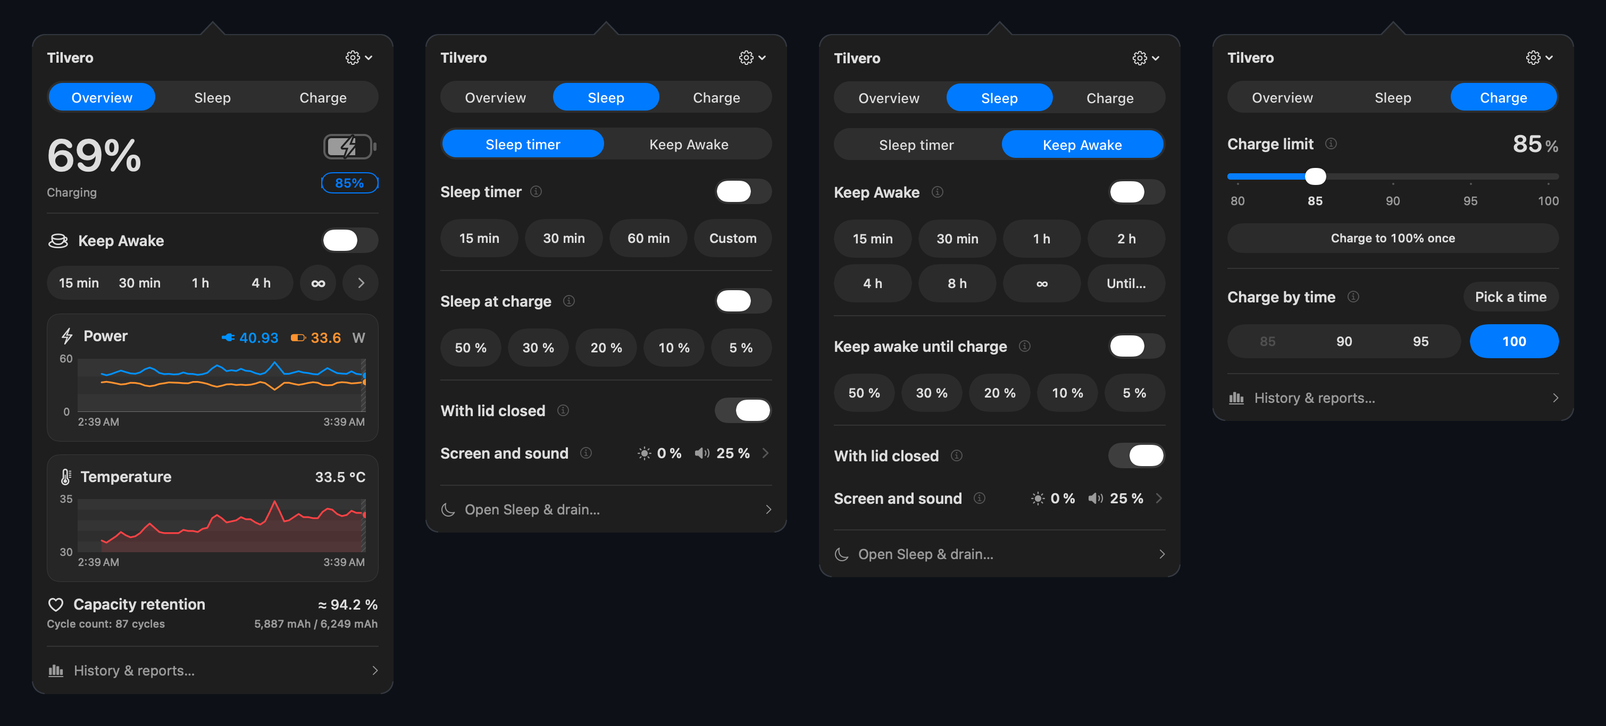
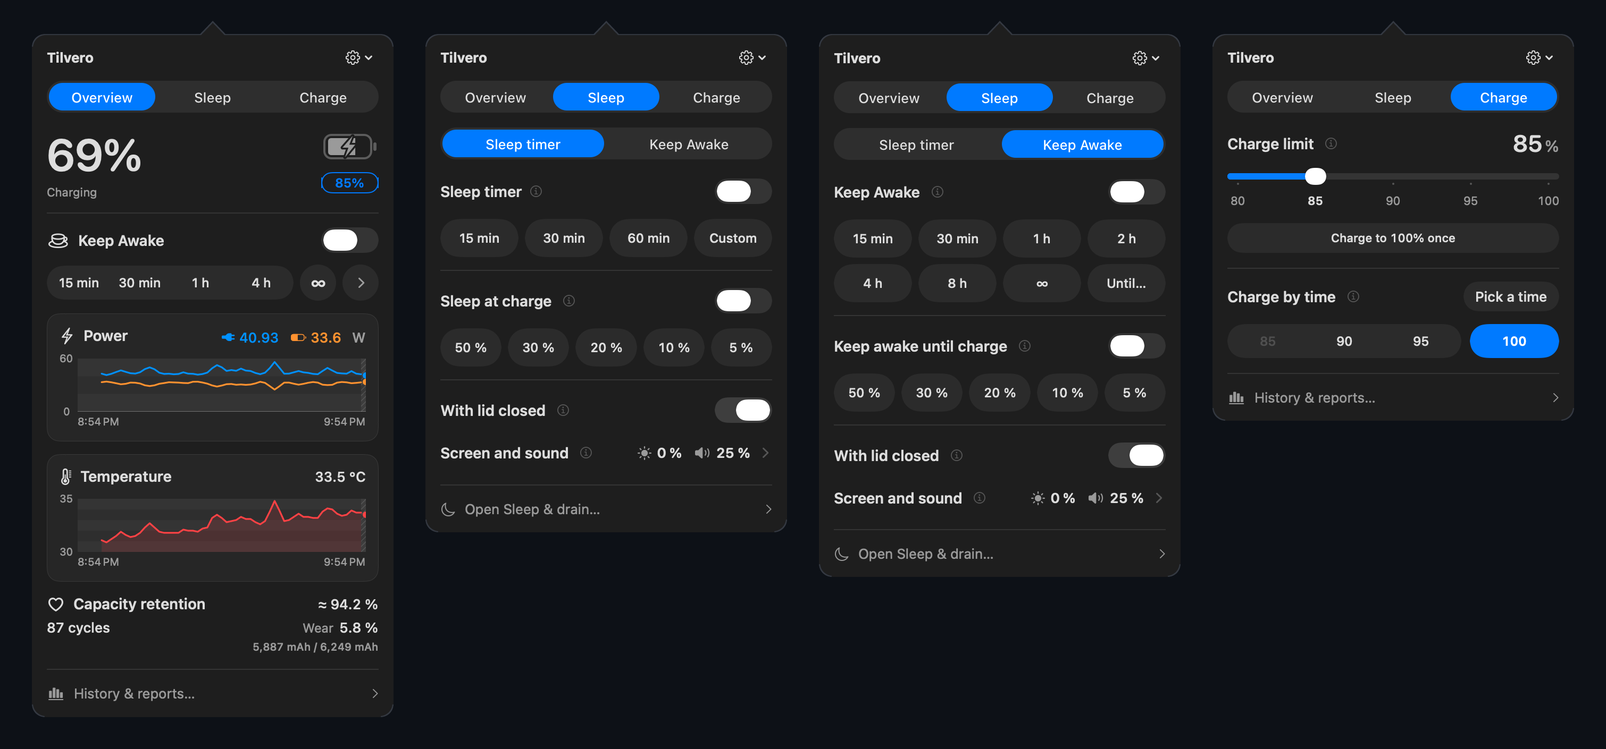
Prepare Tilvero 0.7.1
Version 0.7.1 (build 86): changelog, README EN/RU "What's new", install/releasing pins,
update-check wording (on by default, daily, can be turned off), test counts, and the
quick-menu README composites regenerated from the real views (new battery-health card).

diff --git a/README.ru.md b/README.ru.md
@@ -1,7 +1,7 @@
 ![Tilvero — батарея, питание и активность. Swift 6, macOS 26+, Apple silicon. Предварительная версия в исходниках.](.github/assets/cover.png)
 
 <p align="center">
-  <a href="https://github.com/RaNDoM6913/Tilvero/releases/tag/v0.7.0"><img src="https://img.shields.io/badge/source-preview-2F6E4B?style=for-the-badge&amp;labelColor=172A22&amp;color=2F6E4B" alt="Предварительная версия в исходниках" height="28"></a>
+  <a href="https://github.com/RaNDoM6913/Tilvero/releases/tag/v0.7.1"><img src="https://img.shields.io/badge/source-preview-2F6E4B?style=for-the-badge&amp;labelColor=172A22&amp;color=2F6E4B" alt="Предварительная версия в исходниках" height="28"></a>
   <a href="docs/GITHUB_TRAFFIC.md"><img src="https://img.shields.io/badge/zip%20%E2%80%A2%20clones%20%E2%80%A2%20unique-18%20%E2%80%A2%201677%20%E2%80%A2%20409-2F6E4B?style=for-the-badge&amp;labelColor=172A22" alt="Скачивания ZIP 18, клонирования Git 1677, уникальные клонирующие 409" height="28"></a>
   <a href="LICENSE"><img src="https://img.shields.io/badge/license-GPL--3.0--only-2F6E4B?style=for-the-badge&amp;labelColor=172A22&amp;color=2F6E4B" alt="Лицензия GPL-3.0-only" height="28"></a>
 </p>
@@ -30,35 +30,36 @@ Tilvero живёт в строке меню. Одно быстрое меню п
 - **Первый запуск:** на совсем новой установке открывается одно окно настройки (запуск при входе, история, режим закрытой крышки
   и «Зарядить к времени»). Уже установленные копии его не показывают.
 
-**Новейшая версия: [исходники 0.7.0](https://github.com/RaNDoM6913/Tilvero/releases/tag/v0.7.0) для разработчиков.**
-[Получить исходники](https://github.com/RaNDoM6913/Tilvero/releases/download/v0.7.0/Tilvero-0.7.0-source.zip)
-· [Описание выпуска и контрольные суммы](https://github.com/RaNDoM6913/Tilvero/releases/tag/v0.7.0)
+**Новейшая версия: [исходники 0.7.1](https://github.com/RaNDoM6913/Tilvero/releases/tag/v0.7.1) для разработчиков.**
+[Получить исходники](https://github.com/RaNDoM6913/Tilvero/releases/download/v0.7.1/Tilvero-0.7.1-source.zip)
+· [Описание выпуска и контрольные суммы](https://github.com/RaNDoM6913/Tilvero/releases/tag/v0.7.1)
 · [Сборка и запуск](#сборка-и-запуск) · [План развития](ROADMAP.md)
-· Ранее: [0.6.2](https://github.com/RaNDoM6913/Tilvero/releases/tag/v0.6.2),
-[0.6.1](https://github.com/RaNDoM6913/Tilvero/releases/tag/v0.6.1)
+· Ранее: [0.7.0](https://github.com/RaNDoM6913/Tilvero/releases/tag/v0.7.0),
+[0.6.2](https://github.com/RaNDoM6913/Tilvero/releases/tag/v0.6.2)
 
 Подписанная и нотарифицированная версия для Mac готовится. Планируемый DMG
 **Monitoring Preview** будет работать только для чтения; в репозитории также
 есть управление для разработки с отдельными проверками допуска.
 [Доступность и установка](docs/INSTALL.md#русский).
 
-## Что нового в 0.7.0
+## Что нового в 0.7.1
 
-Первичная настройка и более аккуратный «Обзор».
+Доводка: более понятная карточка здоровья батареи и тихое уведомление об обновлении.
 
 **Новое**
-- **Первый запуск с помощником.** На совсем новой установке одно окно настраивает всё: запуск при входе, историю, режим закрытой крышки и «Зарядить к времени». Всё включено, у каждого пункта свой переключатель. Два пункта, которым нужен пароль администратора, делят один системный диалог macOS (или, если хотите, подготовленное окно Терминала); пароль Tilvero не видит. Потом вокруг иконки в строке меню пульсирует кольцо, пока не откроется быстрое меню. Уже установленные копии окно не показывают.
-- **Стартовый «Обзор».** Новая установка начинается с «Не засыпать», общего графика мощности, температуры и здоровья батареи, а не со всех блоков.
-- **«Убрать все разрешения».** В Настройки > Установка перечислены все права администратора у Tilvero; одна кнопка снимает их все, а команду можно выполнить самому.
+- **Пометка «Новая версия» в быстром меню.** Если последняя проверка нашла выпуск новее вашей сборки, в шапке между названием и шестерёнкой появляется широкая капсула; она открывает Настройки > Обновления. Это только уведомление.
+- **Проверка обновлений включена по умолчанию.** Tilvero раз в сутки, пока работает, обращается к GitHub (первый раз примерно через две минуты после запуска). Это один публичный запрос: без аккаунта, показания не отправляются. Выключается в Настройки > Обновления. Установка по-прежнему ручная: выпуск публикует исходники, которые вы собираете в Xcode; ничего не скачивается и не устанавливается само.
 
 **Изменено**
-- **Общий график мощности называет линии в легенде над графиком** (адаптер синим, батарея оранжевым) вместо подписей на концах: график стал шире на всю карточку.
-- **Единый стиль заголовков у всех блоков «Обзора»**, как у «Не засыпать».
-- Плашки таймера «Не засыпать» отсчитывают каждую секунду, заливка батареи в строке меню заканчивается на целом пункте, как у системной, а у строки подсветки клавиатуры нет переключателя.
+- **Карточка здоровья батареи в «Обзоре» показывает число циклов и износ крупнее**, а ёмкости мелким шрифтом ниже.
+- Страница «Обновления» продолжает показывать результат последней успешной проверки с датой, даже если следующая проверка не удалась или отменена.
 
-## Что было нового в 0.6.2
+**Исправлено**
+- Переключатель «Не засыпать» и таймера сна снова анимируется: раньше он пересоздавался посреди нажатия.
 
-Доводка графиков и иконки в строке меню: целые числа на оси, батарея в строке меню ближе к системной и более тихая страница «Заряд».
+## Что было нового в 0.7.0
+
+Первичная настройка для новых установок, стартовый «Обзор» с «Не засыпать», мощностью, температурой и здоровьем батареи и единый стиль заголовков блоков.
 
 Вся история: [CHANGELOG](CHANGELOG.md).
 
@@ -100,7 +101,7 @@ Tilvero живёт в строке меню. Одно быстрое меню п
 macOS SDK и Swift 6. Отдельные Command Line Tools не являются проверенным путём сборки.
 
 ```sh
-git clone --branch v0.7.0 https://github.com/RaNDoM6913/Tilvero.git
+git clone --branch v0.7.1 https://github.com/RaNDoM6913/Tilvero.git
 cd Tilvero
 bash scripts/test.sh
 bash scripts/build-local-app.sh

diff --git a/README.md b/README.md
@@ -1,7 +1,7 @@
 ![Tilvero — Battery, power and activity. Swift 6, macOS 26+, Apple silicon. Source preview.](.github/assets/cover.png)
 
 <p align="center">
-  <a href="https://github.com/RaNDoM6913/Tilvero/releases/tag/v0.7.0"><img src="https://img.shields.io/badge/source-preview-2F6E4B?style=for-the-badge&amp;labelColor=172A22&amp;color=2F6E4B" alt="Source preview" height="28"></a>
+  <a href="https://github.com/RaNDoM6913/Tilvero/releases/tag/v0.7.1"><img src="https://img.shields.io/badge/source-preview-2F6E4B?style=for-the-badge&amp;labelColor=172A22&amp;color=2F6E4B" alt="Source preview" height="28"></a>
   <a href="docs/GITHUB_TRAFFIC.md"><img src="https://img.shields.io/badge/zip%20%E2%80%A2%20clones%20%E2%80%A2%20unique-18%20%E2%80%A2%201677%20%E2%80%A2%20409-2F6E4B?style=for-the-badge&amp;labelColor=172A22" alt="Source ZIP downloads 18, Git clones 1677, unique cloners 409" height="28"></a>
   <a href="LICENSE"><img src="https://img.shields.io/badge/license-GPL--3.0--only-2F6E4B?style=for-the-badge&amp;labelColor=172A22&amp;color=2F6E4B" alt="License: GPL-3.0-only" height="28"></a>
 </p>
@@ -30,34 +30,35 @@ establish hardware support or qualify a release binary.</sub>
 - **First run:** a brand-new install opens one setup window (launch at login, history, the closed-lid option and charge by time).
   Existing installs never see it.
 
-**Latest: [0.7.0 Source Preview](https://github.com/RaNDoM6913/Tilvero/releases/tag/v0.7.0) for developers.**
-[Get the source](https://github.com/RaNDoM6913/Tilvero/releases/download/v0.7.0/Tilvero-0.7.0-source.zip)
-· [Release notes and checksums](https://github.com/RaNDoM6913/Tilvero/releases/tag/v0.7.0)
+**Latest: [0.7.1 Source Preview](https://github.com/RaNDoM6913/Tilvero/releases/tag/v0.7.1) for developers.**
+[Get the source](https://github.com/RaNDoM6913/Tilvero/releases/download/v0.7.1/Tilvero-0.7.1-source.zip)
+· [Release notes and checksums](https://github.com/RaNDoM6913/Tilvero/releases/tag/v0.7.1)
 · [Build and run](#build-and-run) · [Roadmap](ROADMAP.md)
-· Earlier: [0.6.2](https://github.com/RaNDoM6913/Tilvero/releases/tag/v0.6.2),
-[0.6.1](https://github.com/RaNDoM6913/Tilvero/releases/tag/v0.6.1)
+· Earlier: [0.7.0](https://github.com/RaNDoM6913/Tilvero/releases/tag/v0.7.0),
+[0.6.2](https://github.com/RaNDoM6913/Tilvero/releases/tag/v0.6.2)
 
 A signed, notarized Mac download is still in preparation. The planned
 **Monitoring Preview** DMG will be read-only; this repository also contains
 separately gated development controls. [Availability and installation](docs/INSTALL.md).
 
-## What's new in 0.7.0
+## What's new in 0.7.1
 
-A first-run setup and a tidier Overview.
+A polish release: a clearer battery-health card and a quiet update notice.
 
 **New**
-- **A guided first run.** On a brand-new install one window sets everything up: launch at login, history, the closed-lid option and charge by time, all on, with one switch each. The two that need the administrator password share a single macOS dialog (or, if you prefer, a prepared Terminal window), and Tilvero never sees the password. A ring then pulses around the menu bar icon until the quick menu opens. Existing installs never see it.
-- **A starter Overview.** New installs begin with Keep Awake, the combined power chart, temperature and battery health instead of every block.
-- **Remove all permissions.** Settings > Setup lists each administrator permission Tilvero holds, with one button that removes them all and a command to do it yourself.
+- **A "New version" notice in the quick menu.** When the last update check found a release newer than your build, a wide capsule appears in the header between the name and the gear and opens Settings > Updates. It only informs.
+- **Update checks are on by default.** Tilvero asks GitHub once a day while it runs (the first time about two minutes after launch). It is one public request: no account, no readings sent. Turn it off in Settings > Updates. Installing is still manual: a release publishes source, which you build with Xcode; nothing is downloaded or installed for you.
 
 **Changed**
-- **The combined power chart names its lines in a header legend** (adapter in blue, battery in orange) instead of end labels, so the plot is as wide as the card.
-- **One title style for every Overview block**, the same as Keep Awake.
-- The Keep Awake timer pills count down every second, the menu bar battery fill ends on a whole point like the system battery, and the keyboard backlight row has no on/off switch.
+- **The battery-health card on the Overview shows the cycle count and the wear on a larger line**, with the capacities small below.
+- The Updates page keeps showing the dated result of the last successful check, even when a later check fails or is cancelled.
 
-## What was new in 0.6.2
+**Fixed**
+- The Keep Awake and Sleep timer switch animates again; it was rebuilt in the middle of the click.
 
-A polish release for the charts and the menu bar icon: a whole-number chart axis, a menu bar battery closer to the system one, and a quieter Charge page.
+## What was new in 0.7.0
+
+A first-run setup for new installs, a starter Overview with Keep Awake, power, temperature and battery health, and one title style for every Overview block.
 
 Full history: [CHANGELOG](CHANGELOG.md).
 
@@ -99,7 +100,7 @@ You need **Apple silicon, macOS 26.0+ and a full Xcode installation** with a
 compatible macOS SDK and Swift 6. Command Line Tools alone are not the validated route.
 
 ```sh
-git clone --branch v0.7.0 https://github.com/RaNDoM6913/Tilvero.git
+git clone --branch v0.7.1 https://github.com/RaNDoM6913/Tilvero.git
 cd Tilvero
 bash scripts/test.sh
 bash scripts/build-local-app.sh

diff --git a/docs/INSTALL.md b/docs/INSTALL.md
@@ -7,7 +7,7 @@
 ### Available now: source preview
 
 Tilvero is available as source for **Apple silicon, macOS 26.0+**. Use the
-[v0.7.0 source release](https://github.com/RaNDoM6913/Tilvero/releases/tag/v0.7.0)
+[v0.7.1 source release](https://github.com/RaNDoM6913/Tilvero/releases/tag/v0.7.1)
 and follow [Build and run](../README.md#build-and-run).
 A source archive requires a full Xcode installation; it is not an installable app.
 
@@ -23,7 +23,7 @@ Awake. Monitoring, history and diagnostics need no administrator approval.
 
 ### Verify a source release
 
-The release supplies `Tilvero-0.7.0-source.zip`,
+The release supplies `Tilvero-0.7.1-source.zip`,
 `source-release.json` and `SHA256SUMS`. Download all three from the same explicit
 release, then run `shasum -a 256 -c SHA256SUMS` in their folder. Every entry must
 match. The source manifest identifies the tag, exact commit and source ZIP hash;
@@ -33,7 +33,7 @@ use the build commands below, starting with `bash scripts/test.sh`.
 ### Source-build essentials
 
 ```sh
-git clone --branch v0.7.0 https://github.com/RaNDoM6913/Tilvero.git
+git clone --branch v0.7.1 https://github.com/RaNDoM6913/Tilvero.git
 cd Tilvero
 bash scripts/test.sh
 bash scripts/build-local-app.sh
@@ -68,7 +68,8 @@ around rejection. A checksum confirms integrity, not signing trust or notarizati
 
 ### Updates and local data
 
-Updates are manual. Read migration notes, quit the running version normally,
+Updates are manual. Tilvero checks GitHub once a day for a newer release (one public request, no readings sent; switch it off in
+Settings > Updates) and shows a "New version" notice, but never downloads or installs anything. Read migration notes, quit the running version normally,
 then replace it with the verified new app. Preserve history and preferences;
 report an import failure instead of deleting the old store. Do not run prototype
 and production copies together during migration.
@@ -90,7 +91,7 @@ before sharing them. No automatic updater is enabled.
 ### Сейчас доступны исходники
 
 Tilvero доступен в исходниках для **Apple silicon, macOS 26.0+**. Скачайте
-[исходники v0.7.0](https://github.com/RaNDoM6913/Tilvero/releases/tag/v0.7.0)
+[исходники v0.7.1](https://github.com/RaNDoM6913/Tilvero/releases/tag/v0.7.1)
 и следуйте инструкции [«Сборка и запуск»](../README.ru.md#сборка-и-запуск).
 Архив исходников требует полной установки Xcode; это не готовое приложение.
 
@@ -107,7 +108,7 @@ DMG **Monitoring Preview** не будет содержать помощника
 
 ### Проверка выпуска исходников
 
-Выпуск содержит `Tilvero-0.7.0-source.zip`,
+Выпуск содержит `Tilvero-0.7.1-source.zip`,
 `source-release.json` и `SHA256SUMS`. Скачайте все три файла из одного конкретного
 выпуска и выполните в их папке `shasum -a 256 -c SHA256SUMS`; все записи должны
 совпасть. Манифест исходников указывает тег, точный коммит и сумму ZIP, но не
@@ -117,7 +118,7 @@ DMG **Monitoring Preview** не будет содержать помощника
 ### Сборка из исходников
 
 ```sh
-git clone --branch v0.7.0 https://github.com/RaNDoM6913/Tilvero.git
+git clone --branch v0.7.1 https://github.com/RaNDoM6913/Tilvero.git
 cd Tilvero
 bash scripts/test.sh
 bash scripts/build-local-app.sh
@@ -154,7 +155,9 @@ bash scripts/run-local.sh
 
 ### Обновление и данные
 
-Обновление ручное: прочитайте заметки о переносе, штатно завершите приложение
+Обновление ручное. Tilvero раз в сутки проверяет GitHub на новый выпуск (один публичный запрос, показания не отправляются;
+отключается в Настройки > Обновления) и показывает пометку «Новая версия», но ничего не скачивает и не устанавливает.
+Прочитайте заметки о переносе, штатно завершите приложение
 и замените его проверенной новой версией. Сохраните историю и настройки;
 о сбое импорта сообщите, не удаляя старую базу. Не запускайте прототип
 и production-копию одновременно во время переноса.

diff --git a/docs/COMPATIBILITY.md b/docs/COMPATIBILITY.md
@@ -31,7 +31,7 @@ This UI acceptance does not renew hardware-control qualification after an OS upg
 | --- | --- | --- |
 | Battery and adapter readings | Implemented; actual local app observations | The 115-field catalog is a schema, not a promise of 115 available measurements |
 | Menu bar and detail window | Implemented; native UI, keyboard and appearance checks recorded | Full VoiceOver speech acceptance remains open |
-| Updates | Native version/build, source-release discovery, notes, retry and opt-in checking; qualified Sparkle integration | Development/Lab/trial stay manual; actual signed feed, trusted binary and downloaded-install acceptance remain open |
+| Updates | Native version/build, source-release discovery, notes, retry and daily checking (on by default, can be turned off); qualified Sparkle integration | Development/Lab/trial stay manual; actual signed feed, trusted binary and downloaded-install acceptance remain open |
 | Local history and CSV/JSON export | Implemented and fixture-tested; actual history observed | Gaps stay visible; no invented samples; preview exports before sharing |
 | Application activity | Read-only process counters, search, filtering and ranking | CPU energy/power estimates cover CPU activity only; accessible processes may be a partial set |
 | Sleep & drain | Read-only observation and fixture coverage | New app-observed intervals only; completed real sleep/wake validation remains a device gate |
@@ -76,7 +76,7 @@ privileged qualification gate. See the [helper architecture](../Helper/README.md
 
 ## Validation and distribution
 
-The 0.7.0 source passed the default suite on 2026-11-17 (**1,133 Swift tests, 3 skipped, 0 failures, and 87 Python release-tool tests**). The earlier Sleep-controls source milestone passed the complete **557 Swift tests and 61 Python release-tool tests**, built SwiftPM Release and Xcode Debug bundles, and verified local ad-hoc integrity. An earlier complete run failed eight protected migration-journal operations; a standalone Foundation probe reproduced unavailable Class B reopen/read operations. A later unchanged-source run passed after those protected operations became available, with the same protection class and `0600` permissions. The precise external authentication/system transition remains unknown. These results apply to the recorded source milestone, not automatically
+The 0.7.1 source passed the default suite on 2026-11-17 (**1,137 Swift tests, 3 skipped, 0 failures, and 83 Python release-tool tests**). The earlier Sleep-controls source milestone passed the complete **557 Swift tests and 61 Python release-tool tests**, built SwiftPM Release and Xcode Debug bundles, and verified local ad-hoc integrity. An earlier complete run failed eight protected migration-journal operations; a standalone Foundation probe reproduced unavailable Class B reopen/read operations. A later unchanged-source run passed after those protected operations became available, with the same protection class and `0600` permissions. The precise external authentication/system transition remains unknown. These results apply to the recorded source milestone, not automatically
 to a later release commit. [Testing and validation](TESTING.md) summarizes public coverage and its limits.
 
 **Implemented** means code exists. **Fixture-tested** means deterministic inputs

diff --git a/docs/TESTING.md b/docs/TESTING.md
@@ -22,7 +22,7 @@ The scripts select the installed full Xcode toolchain for their own process. The
 
 Default automated tests use fixtures for controls. They do not qualify physical charge cutoff, battery discharge, real fan control, privileged enrollment, closed-lid operation or recovery under every OS failure. Closed-lid tests inject all writers; a real signed trial requires the separate [device and restoration checks](CLOSED_LID.md).
 
-The 0.7.0 source (first-run setup included) passed the default suite on 2026-11-17: **1,133 Swift tests (3 skipped, 0 failures) and 87 Python release-tool tests**. These are local code/fixture results on one Mac. The earlier Sleep-controls source milestone passed **557 Swift tests and 61 Python release-tool tests**, plus SwiftPM Release and Xcode Debug app builds. All 13 prototype migration tests passed. The prior first-source-preview baseline passed 362 Swift tests and 45 Python release-tool tests.
+The 0.7.1 source passed the default suite on 2026-11-17: **1,137 Swift tests (3 skipped, 0 failures) and 83 Python release-tool tests**. The 0.7.0 source (first-run setup included) had passed on the same day with 1,133 Swift tests (3 skipped, 0 failures); its 87 Python count was not reproduced by a later discovery run (83 test methods, unchanged since). These are local code/fixture results on one Mac. The earlier Sleep-controls source milestone passed **557 Swift tests and 61 Python release-tool tests**, plus SwiftPM Release and Xcode Debug app builds. All 13 prototype migration tests passed. The prior first-source-preview baseline passed 362 Swift tests and 45 Python release-tool tests.
 
 An earlier complete run failed 8 migration-journal read/reopen operations with `EPERM` for `completeFileProtectionUnlessOpen`. A standalone Foundation probe reproduced the failure without Tilvero code. Later, fresh protected-file roundtrips and the same previously failing synthetic files reopened/read successfully with unchanged Class B protection and `0600` permissions; the full unchanged-source suite then passed. No protection/permission/entitlement change, test skip or migration bypass was used. The exact external authentication/system transition remains unknown. Verify authenticated host protection availability when reproducing this class of failure rather than weakening file protection. These are local code/fixture results, not Developer ID, notarization, downloaded-install or hardware-support claims.
 

diff --git a/docs/RELEASING.md b/docs/RELEASING.md
@@ -4,11 +4,11 @@ Tilvero has two distribution routes. The **Source Preview** distributes code for
 
 ## Source Preview
 
-The current source release is `v0.7.0`. It targets developers building on Apple silicon with macOS 26 or later and a compatible full Xcode installation. It includes no `.app`, helper executable or DMG. The source tree contains gated development controls as well as monitoring.
+The current source release is `v0.7.1`. It targets developers building on Apple silicon with macOS 26 or later and a compatible full Xcode installation. It includes no `.app`, helper executable or DMG. The source tree contains gated development controls as well as monitoring.
 
 The source profile's exact upload allowlist is:
 
-- `Tilvero-0.7.0-source.zip`
+- `Tilvero-0.7.1-source.zip`
 - `source-release.json`
 - `SHA256SUMS`
 
@@ -17,7 +17,7 @@ Prepare only after every public source, document and media asset is committed an
 ```sh
 python3 scripts/source_release.py prepare --commit <full-current-commit>
 python3 scripts/source_release.py verify \
-  --manifest build/source-releases/v0.7.0/source-release.json
+  --manifest build/source-releases/v0.7.1/source-release.json
 ```
 
 The tool requires an exact 40-character current commit, matching committed configuration, an unused local tag and the admitted public ancestry. The coordinator must also check the remote tag/release state. It exports the full committed tree, rejects private/runtime/signing files and verifies ZIP entries, raw blobs, permissions, CRC, commit identity and final checksums. Untracked and ignored local inputs never become release source. Even accidentally tracked `local-lab` paths are rejected; source exports must not contain Studio state, captures, owner data or signing material. Existing output is never replaced; failed work remains `.incomplete` for inspection.

diff --git a/CHANGELOG.md b/CHANGELOG.md
@@ -1,5 +1,27 @@
 # Changelog
 
+## 0.7.1 — Update Notice Source Preview — 2026-11-17
+
+A polish release: a clearer battery-health card, an update notice in the quick menu, and one animation fix.
+
+**Added**
+- The quick menu header shows a wide "New version X" capsule between the name and the gear when the last successful update check found a
+  release newer than the installed build. It opens Settings > Updates and only informs.
+- Update checks are now on by default: one public GitHub request a day while Tilvero runs, the first one about two minutes after launch.
+  No account is used and no readings are sent; the switch in Settings > Updates turns it off. Installing an update is still manual:
+  release pages publish source, you build it with Xcode, and nothing is downloaded or installed automatically.
+
+**Changed**
+- The Overview "Capacity retention" card shows the cycle count on the left and "Wear x %" on the right on a larger second line; the full-charge
+  and design capacities sit small below.
+- The Updates page keeps showing the dated result of the last successful check when it is idle, cancelled or the latest check failed.
+
+**Fixed**
+- The Keep Awake and Sleep timer header switch animates again: starting or ending a session rebuilt it in the middle of the click.
+
+Source for Apple silicon with macOS 26.0+ and full Xcode; no app or DMG. The real administrator dialog and the Terminal
+route, the login item from a non-/Applications path and waking a sleeping Mac on schedule still need your own device check.
+
 ## 0.7.0 — First Run Source Preview — 2026-11-17
 
 A first-run setup and a tidier Overview.

diff --git a/docs/UPDATES_DISTRIBUTION.md b/docs/UPDATES_DISTRIBUTION.md
@@ -11,7 +11,7 @@ The first installer host must satisfy all of these checks against its actual bun
 - Exact `io.github.random6913.tilvero`, production data scope, Monitoring profile, integer build and no app helper/service contents.
 - Valid Apple Developer ID Application signature and the configured actual Team ID. Ad hoc, development, Lab and lid-trial identities remain manual.
 - Sealed updater configuration with an existing 32-byte Ed25519 public key and HTTPS feed. Feed signing and pre-extraction verification are required; feed-signing failures never expire into a permissive fallback.
-- Automatic checks, downloads, installation options, profiling and release-note JavaScript disabled. The app's separately persisted opt-in informational scheduler never grants installation permission.
+- Automatic checks, downloads, installation options, profiling and release-note JavaScript disabled. The app's separately persisted informational scheduler (on by default, switchable off by the user) never grants installation permission.
 
 A signed appcast candidate must additionally have a strictly greater integer build, an application DMG, valid signed-feed status and enclosure attributes `tilveroBundleID`, `tilveroProfile=monitoring`, `tilveroTeamID` and `tilveroArchitecture=arm64` matching the installed profile. Sparkle validates archive signatures and the replacement app signature. Stable/beta selection adds only the beta channel; it never changes feed/profile/identity or admits a downgrade.
 

diff --git a/ROADMAP.md b/ROADMAP.md
@@ -6,7 +6,7 @@ Tilvero focuses on battery, charging, power and cooling in a native, offline mac
 
 Live monitoring, a compact menu bar panel (Overview, Sleep and Charge pages, with a first-run setup for new installs), searchable readings, local history, redacted exports, Russian/English UI and explicit simulation are available in source builds. Control policies and recovery boundaries have software coverage; privileged hardware writes (helper, fans, energy modes) beyond the native macOS charge limit remain gated by the [compatibility gates](docs/COMPATIBILITY.md).
 
-Settings now includes release discovery and notes with opt-in automatic checking.
+Settings now includes release discovery and notes with automatic checking (on by default, once a day, can be turned off).
 Source archives remain informational. Native Sparkle installation is implemented
 behind exact signed Monitoring identity, feed and recovery gates; actual trusted
 binary distribution and downloaded-update acceptance are still pending. The menu
